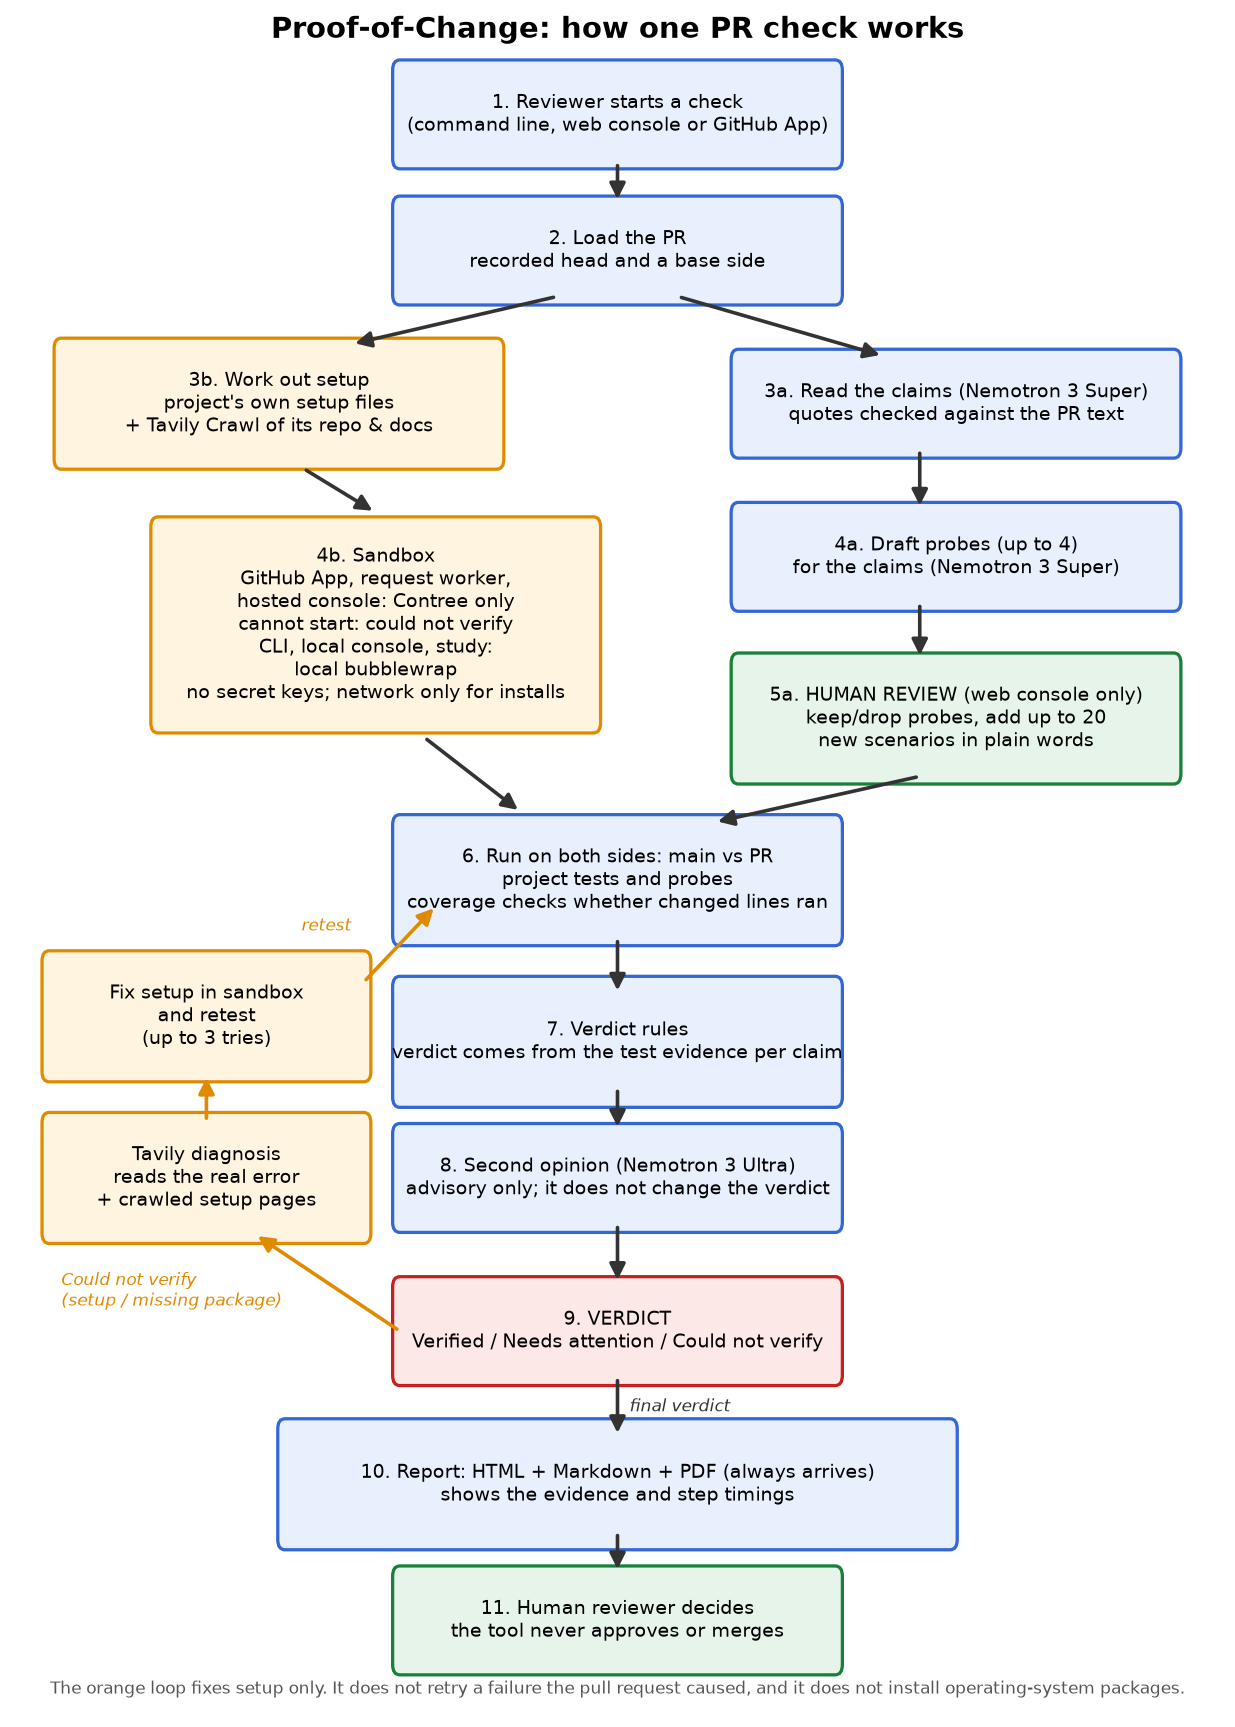
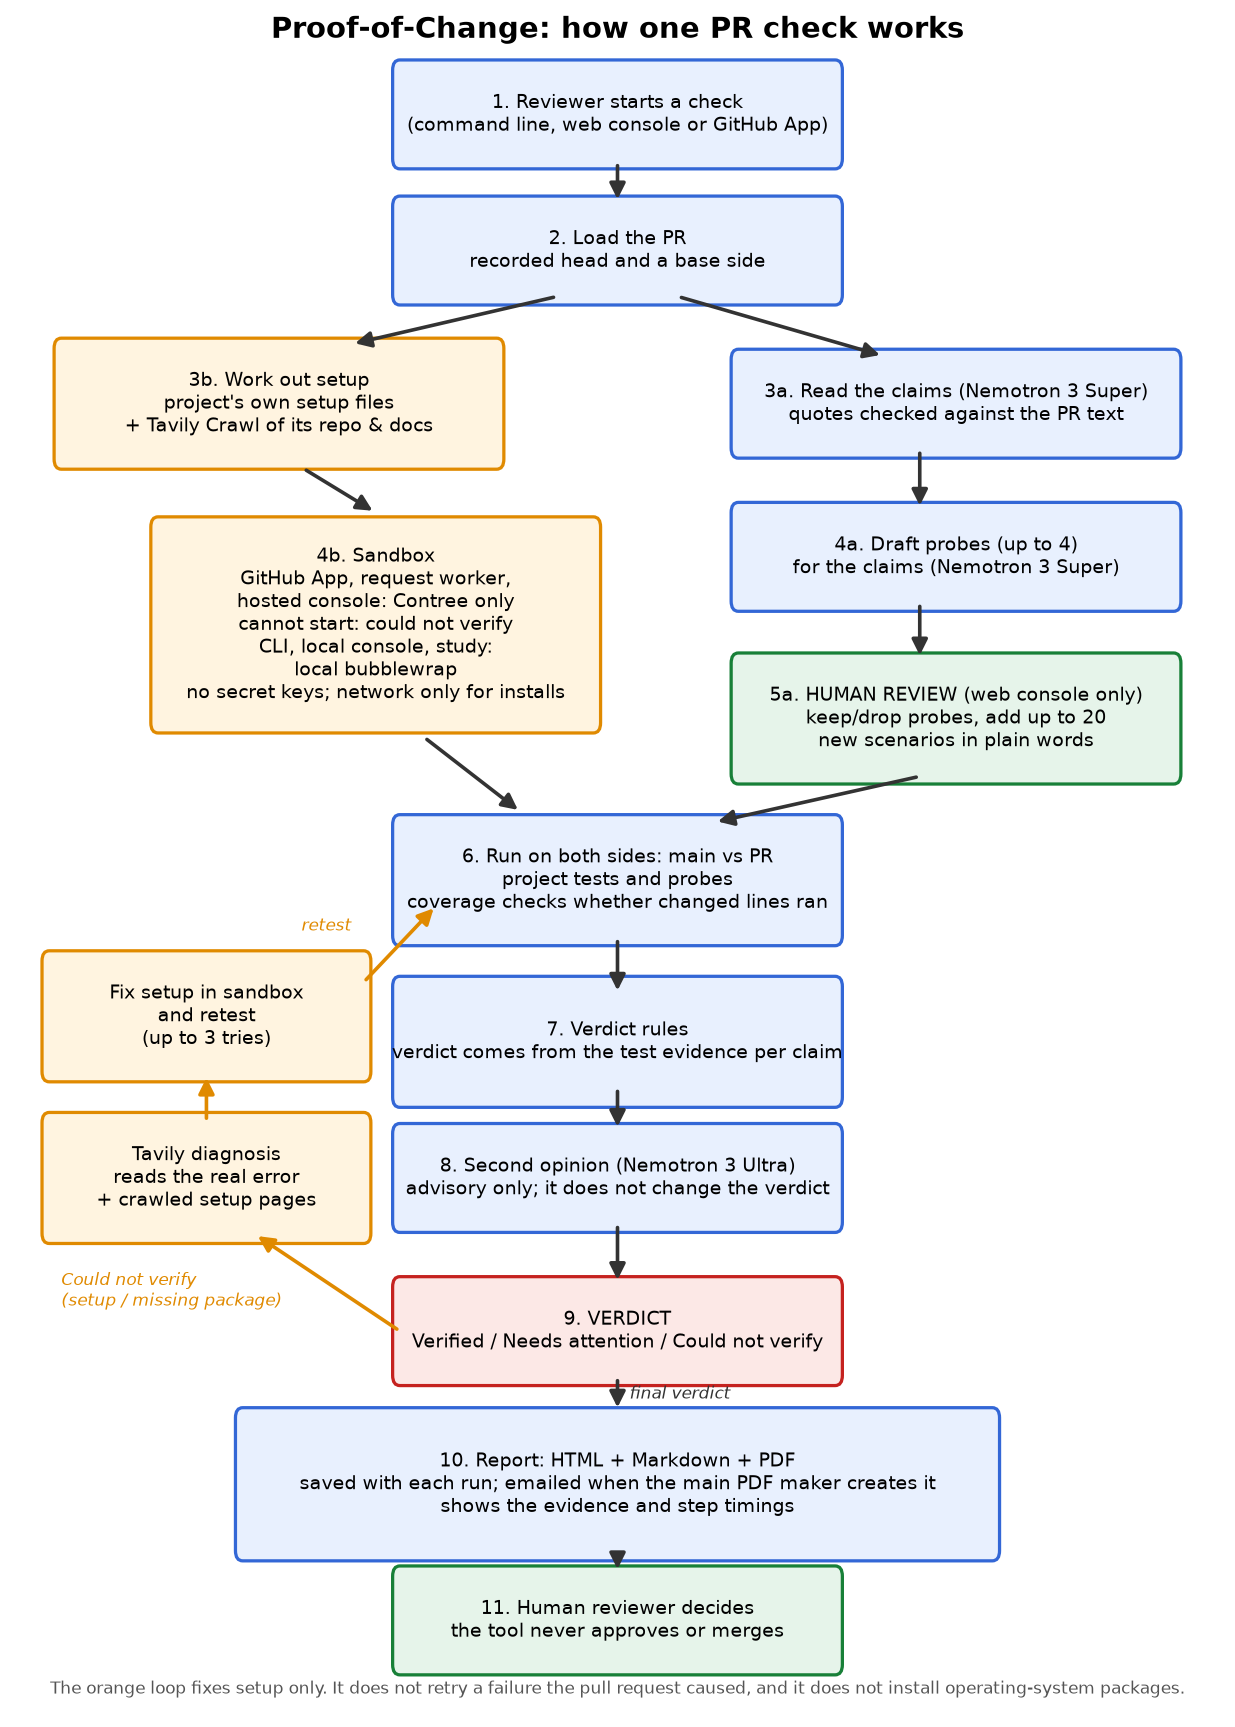
docs: the PDF is saved with the run, not promised to always arrive
The report is saved with each run and emailed when the main PDF maker creates it.

Changed region(s): [[0.1846, 0.7979, 0.8308, 0.9207]]

diff --git a/docs/architecture.py b/docs/architecture.py
@@ -68,8 +68,10 @@ panel(0.16, 0.315, "Tavily diagnosis\nreads the real error\n+ crawled setup page
 panel(0.16, 0.41, "Fix setup in sandbox\nand retest\n(up to 3 tries)", c=NEW, e=NE, w=0.26, h=0.065)
 panel(
     0.5, 0.135,
-    "10. Report: HTML + Markdown + PDF (always arrives)\nshows the evidence and step timings",
-    w=0.55, h=0.065,
+    "10. Report: HTML + Markdown + PDF\n"
+    "saved with each run; emailed when the main PDF maker creates it\n"
+    "shows the evidence and step timings",
+    w=0.62, h=0.078,
 )
 panel(0.5, 0.055, "11. Human reviewer decides\nthe tool never approves or merges", c=HUM, e=HE)
 arr(0.5, 0.912, 0.5, 0.888)
@@ -88,8 +90,8 @@ ax.text(0.04, 0.24, "Could not verify\n(setup / missing package)", fontsize=9.5,
 arr(0.16, 0.348, 0.16, 0.376, col=NE)
 arr(0.29, 0.43, 0.35, 0.475, col=NE)
 ax.text(0.28, 0.458, "retest", fontsize=9.5, color=NE, ha="right", va="bottom", style="italic")
-arr(0.5, 0.198, 0.5, 0.163, "final verdict")
-arr(0.5, 0.107, 0.5, 0.083)
+arr(0.5, 0.198, 0.5, 0.178, "final verdict")
+arr(0.5, 0.092, 0.5, 0.083)
 ax.text(
     0.5, 0.012,
     "The orange loop fixes setup only. It does not retry a failure the pull request caused, "

diff --git a/docs/decisions/2026-10-27-bench-pinned-commits-and-pdf-timeout.md b/docs/decisions/2026-10-27-bench-pinned-commits-and-pdf-timeout.md
@@ -30,7 +30,7 @@ local report with no remote fonts or images, so the cause is Chrome start-up, no
 2. The benchmark runner retries a case once, and only when the record says Contree could not be reached
    (`ContreeTransportError`). A test failure, a setup gap, any other Contree failure or any verdict from
    tests that ran is never retried. The result notes whether a retry happened.
-3. The PDF always arrives. Each PDF starts a fresh headless Chrome with its own temporary profile, extra
+3. The PDF report is saved with each run and emailed when created by the main PDF maker. Each PDF starts a fresh headless Chrome with its own temporary profile, extra
    flags that stop background network, keychain and first-run waits, a 60-second hard limit and its own
    process group; on a hang the whole group is killed, and any process still using the temporary profile folder is killed after every PDF (a leftover helper holding the output pipe was what
    kept the run waiting). If Chrome is missing, fails or hangs, a built-in pure-Python PDF maker

diff --git a/README.md b/README.md
@@ -33,9 +33,9 @@ When setup or an import fails, the checker can look up the real error, install t
 the check again, up to 3 logged tries. A repair only lets the check run; the verdict comes from the same rules as
 any other run. It never retries a failure the PR caused and never installs OS packages.
 
-The report is HTML and Markdown, and it shows the evidence and how long each step took. The PDF always arrives:
-Chrome makes it when it works, and otherwise the built-in reportlab maker does. A person decides, and the tool
-never approves or merges.
+The report is HTML and Markdown, and it shows the evidence and how long each step took. The PDF report is saved
+with each run and emailed when created by the main PDF maker. A person decides, and the tool never approves or
+merges.
 
 Each check logs the Tavily credits it uses. When `POC_TAVILY_CREDIT_CAP` is set, a check that might go over stops
 before its first Tavily call and reports could not verify.
